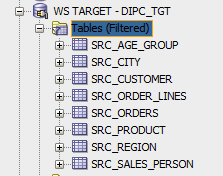
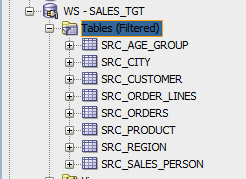
Rewrite Lab500

diff --git a/workshops/dipc/CloudWorkshop_DIPC_500.md b/workshops/dipc/CloudWorkshop_DIPC_500.md
@@ -94,112 +94,95 @@ Click on "Select a default staging connection" hyperlink. You will navigate to t
 	**Source Configuration**
 	- Connection: WebClicks_File
 	- Directory: /home/DIPC
-	- File: 
-	
+	- File: Click on "Select" button, click on "webclicks.txt" hyperlink and then the "Select" button
+
+	![](images/500/image500_11.png)
+
 	**Target Configuration**
-	- Connection: 
-	- Schema: 
-	- Data Entity: 
+	- Connection: SALES_TRG
+	- Schema: SALES_TRG 
+	- Data Entity: WEB_CLICKS
+
+![](images/500/image500_12.png)
 
 
 
-6.	Review Connections settings. 
+6.	Let's review the file option DIPC offers, Click on "Options" button.
+7. Provide the following information:
+	- Edcoding: UTF-8
+	- Delimiter: Comma
+	- Text Qualifier: Leave blank
+	- Header: UNSELECTED 
+	- First Data Row: 1 
+8. Click on "OK" button
 
-7.	Click Test Connection – Review for Errors. 
-- Click Save  
+![](images/500/image500_13.png)
 
-8.	Create Target Connection from the Catalog 
-- NOTE: This connection may have already have been setup in a previous HOL 
-- Click on the Create button and select Connection  
-![](images/500/image500_5a.png)
+9. Execute the task, click on "Save and Transform" button
 
-9.	Enter the following information  
-- Name: Sync Target 
-- Description: Sales OLTP Replicated Data 
-- Agent: leave blank 
-- Type: Oracle – selecting Oracle will expand the Connection Settings 
-- Hostname: localhost 
-- Port: 1521 
-- Username: DIPC_TRG 
-- Password: welcome1 
-- Service Name: dics12c 
-- Schema: DIPC_TRG 
+![](images/500/image500_14.png)
 
-![](images/500/image500_6a.png)
+10.	As the file is being parsed and profiled, the following screen will appear  
 
-10.	Click Test Connection, Review for errors 
+![](images/500/image500_15.png)
 
-11.	Click Save 
+11. Once finished, the data preparation screen will come up. The profiling process has captured advanced profiling information as the flat file was ingested.  Click each column to review the profiling results in the right hand data profile drawer.
+12. There is a second tab in which is possible to review the data in the file; click the "Data" tab 
 
-12.	Create Data Preparation Task Entries as follows 
-- Name: Prep Web Data 
-- Description: Prep External Website Data 
-- Source Configuration 
--  Connection: LocalFileStore 
--  Directory: /home/DIPC 
--  File: Click Select - scroll to webclicks.txt 
+![](images/500/image500_16.png)
 
-- Select options for webclicks.txt as follows 
 
-![](images/500/image500_7a.png)
+13. To transform data on a particular column, click the hamburger menu on the column you want to transfom.  
 
-- No Text Qualifier 
-- Ensure header is not enabled 
-- First Data Row should be 1 
-- Select OK
+![](images/500/image500_17.png)
 
-- Target Configuration 
--  Connection: DIPC_TRG 
--  Schema: DIPC_TRG 
--  Data Entity: webclicks  
-
-![](images/500/image500_8a.png)
-
-13.	Click Save and Transform 
-
-14.	The following screen will appear as the file is being parsed and profiled 
-
-![](images/500/image500_9a.png)
-
-15. Once finished the data preparation screen will appear 
-
-![](images/500/image500_10a.png)
-
-16. Begin prepping/transforming the file 
-
-- The profiling process has captured advanced profiling information as the flat file was ingested.  Click each column to review the profiling results in the right hand data profile drawer. 
-- There are also two views in which data can be prepped and transformed. To view the data view click the data tab 
-
-![](images/500/image500_11a.png)
-
-17. To transform data click the menu bar on the column 
-
-![](images/500/image500_12a.png)
-
-18. For Column 6 transform Shoes.html to shoes.html using the Replace transform 
-
-![](images/500/image500_13a.png)
-
-19. Click Apply.  Clicking apply updates, the data, metadata and profiling statistics.  Also note the transform is saved and displayed in the left-hand drawer.  This transform can be deleted and the data, metadata and profiling statistics will be updated accordingly. 
-![](images/500/image500_14b.png)
-- Column 1: Rename WROWID 
-- Column 2: Rename CUSTID 
-- Column 3: Rename LNAME 
-- Column 4: Rename FNAME 
-- Column 5: Rename PAGENAME 
-- Column 6: Rename PAGEREFERRER 
-- Column 7: Rename VISITDATE 
-
-20. Review Transforms and Data
-
-![](images/500/image500_15b.png)
-
-21. Click Save and Run 
-
-22. Review Job Execution 
+14. For Column 6, click on the hamburger menu and then select "Replace".
  
-![](images/500/image500_16a.png)
+![](images/500/image500_18.png)
 
-Summary 
+15. Provide the following information:
+	- Search String: SHoe.html
+	- Replace String: shoes.html
+16. Click the "Apply" button.
+
+![](images/500/image500_19.png)
+
+Clicking apply updates data, metadata and profiling statistics.  Also note the transform is saved and displayed in the left-hand drawer.  This transform can be deleted and the data, metadata and profiling statistics will be updated accordingly. 
+
+![](images/500/image500_20.png)
+
+17. Now please perform the following transformations:
+	- Column 1: Rename to WROWID 
+	- Column 2: Rename to CUSTID 
+	- Column 3: Rename to LNAME 
+	- Column 4: Rename to FNAME 
+	- Column 5: Rename to PAGENAME 
+	- Column 6: Rename to PAGEREFERRER 
+	- Column 7: Rename to VISITDATE 
+18. Review Transforms and Data
+19. Click "Save and Run" button (top right corner)
+
+![](images/500/image500_21.png)
+
+20.	You will be navigated to the “Jobs” screen. After some time, a message will appear in the notification bar
+21.	The job will automatically appear within the "Jobs" page. This may take up to 1 minute
+
+![](images/500/image500_22.png)
+
+22. Review the job execution, click on the job name
  
-You have now successfully completed the Hands on Lab, and have successfully performed an end-to-end data synchronization task through Oracle’s Data Integration Platform Cloud. 
+![](images/500/image500_23.png)
+
+
+### Verify Uploaded Data (Optional)
+
+1.	Go to your SQL Developer and expand "WS - SALES_TRG" connection and its tables. If it is already opened, just refresh the information)
+2.	Select “SRC_CUSTOMER” table
+3.	On the right panel, select “Data” tab
+
+![](images/500/image500_24.png)
+ 
+
+## Summary 
+ 
+You have now successfully completed the Hands on Lab, and have successfully performed an Data Preparation task through Oracle’s Data Integration Platform Cloud. 

diff --git a/workshops/dipc/CloudWorkshop_DIPC_200.md b/workshops/dipc/CloudWorkshop_DIPC_200.md
@@ -165,7 +165,7 @@ The “Advanced Options” allow you to optionally enable or disable the initial
 
 ![](images/200/image200_21.png)
 
-7.	You will be navigated to the “Jobs” screen. After some time, a notification will appear in the notification bar
+7.	You will be navigated to the “Jobs” screen. After some time, a message will appear in the notification bar
 
 ![](images/200/image200_22.png)
 
@@ -231,7 +231,7 @@ DIPC has created and orchestrated the initial load and the data synchronization 
 ### Verify Data in Source and Target DBs (Optional)
 Up until this point, we have monitored the job within DIPC but it would nice to see the data in both source and target to verify that they are the same. For such task, we will use SQL Developer; please refer to Appendix 3 to learn how to create connections against the workshop databases.
 
-1.	Start SQL Developer. On the connections panel, select your source database and click on the plus (+) sign to open the connection
+1.	Start SQL Developer. On the connections panel, select your source database (WS - SALES_SRC) and click on the plus (+) sign to open the connection
 
     ![](images/200/image200_34.png)
  
@@ -261,7 +261,7 @@ SELECT COUNT(*) SALES_PERSON FROM SRC_SALES_PERSON;
 
 ![](images/200/image200_36.png)
 
-5.	Repeat steps 1 through 4 for connection “WS TARGET - SALES_TRG ”
+5.	Repeat steps 1 through 4 for connection “WS - SALES_TRG ”
 
     ![](images/200/image200_37.png)
  
@@ -286,7 +286,7 @@ Now you have verified that both Extract and Replicat are running. Exit from GGSC
 
 We are going to apply some changes to the source DB and verify how our “Synchronize Data” task takes care of these changes and replicates them to the target.
 
-1.	Go to your SQL Developer and expand “WS SALES - SALES_SRC” connection and its tables.
+1.	Go to your SQL Developer and expand “WS - SALES_SRC” connection and its tables.
 
 ![](images/200/image200_40.png)
  
@@ -309,7 +309,7 @@ We are going to apply some changes to the source DB and verify how our “Synchr
 ![](images/200/image200_42.png)
 
 5.	Click on “Commit” icon to insert the row into the DB (fifth icon from left to right on the icon bar; green checkmark on top of a disk)
-6.	Verify the insert in the target. Go to SQL developer and expand “WS TARGET - SALES_TRG ” connection and its tables
+6.	Verify the insert in the target. Go to SQL developer and expand “WS - SALES_TRG ” connection and its tables
 
 ![](images/200/image200_43.png)
  
@@ -333,14 +333,14 @@ As data is updated, inserted or deleted from the source the data will be automat
 
 ![](images/200/image200_47.png)
  
-13.	Now, we will perform a delete. On your “WS AMER - SALES_SRC” connection (SQL Developer) select “SRC_CUSTOMER” table
+13.	Now, we will perform a delete. On your “WS - SALES_SRC” connection (SQL Developer) select “SRC_CUSTOMER” table
 14.	On the right panel, select “Data” tab and look for “Peter Parker”, select it.
 
 ![](images/200/image200_48.png)
 
 15.	Click on “delete icon (fourth icon from left to right on the icon bar; red X) 
 16.	Click on “Commit” (fifth icon from left to right on the icon bar; green checkmark on top of a disk) icon 
-17.	Let’s verify the deletion in the target. On your “WS TARGET - SALES_TRG ” connection (SQL Developer) select “SRC_CUSTOMER” table
+17.	Let’s verify the deletion in the target. On your “WS - SALES_TRG ” connection (SQL Developer) select “SRC_CUSTOMER” table
 18.	Look for “Peter Parker”, it will not be there
 19.	Go back to DIPC, you should be in the detail screen of the Data Synch job
 20.	It might take some time. The screen will reflect the deletion in the source
@@ -351,7 +351,7 @@ As data is updated, inserted or deleted from the source the data will be automat
 
 ![](images/200/image200_50.png)
 
-22.	Now let’s perform an update. On your “WS SALES - SALES_SRC” connection (SQL Developer) select “SRC_CUSTOMER” table
+22.	Now let’s perform an update. On your “WS - SALES_SRC” connection (SQL Developer) select “SRC_CUSTOMER” table
 23.	On the right panel, select “Data” tab and look for “Paul Brendt”, double click in his age
 
 ![](images/200/image200_51.png)
@@ -361,7 +361,7 @@ As data is updated, inserted or deleted from the source the data will be automat
 ![](images/200/image200_52.png)
 
 25.	Click on “Commit” (fifth icon from left to right on the icon bar; green checkmark on top of a disk) icon. This row will be automatically updated on the target as the DIPC Job picks up the change
-26.	Let’s verify the update in the target. On your “WS TARGET - SALES_TRG ” connection (SQL Developer) select “SRC_CUSTOMER” table
+26.	Let’s verify the update in the target. On your “WS - SALES_TRG ” connection (SQL Developer) select “SRC_CUSTOMER” table
 27.	On the right panel, select “Data” tab and look for “Paul Brendt”, his age has change to 25
 28.	Go back to DIPC, you should be in the detail screen of the Data Synch job
 29.	It might take some time. The screen will reflect the update in the source

diff --git a/workshops/dipc/CloudWorkshop_DIPC_Ap3.md b/workshops/dipc/CloudWorkshop_DIPC_Ap3.md
@@ -10,7 +10,7 @@ SQL developer can be used to verify data in sources and targets.
 ![](images/Ap3/imageAp3_20.png)
 
 3.	Provide the following information
->    - Connection Name: WS SALES - SALES_SRC
+>    - Connection Name: WS - SALES_SRC
 >    - Username: SALES_SRC
 >    - Password: Welcome#123
 >    - Save Password: SELECTED
@@ -30,9 +30,9 @@ SQL developer can be used to verify data in sources and targets.
 
 ## Additional Connections
 You will need to define the following connections:
-1. WS TARGET - DIPC_TGT
->    - Connection Name: WS TARGET - DIPC_TGT
->    - Username: DIPC_TGT
+1. WS - SALES_TRG
+>    - Connection Name: WS - SALES_TRG
+>    - Username: SALES_TRG 
 >    - Password: Welcome#123
 >    - Save Password: SELECTED
 >    - Connector Type: Basic
@@ -41,9 +41,20 @@ You will need to define the following connections:
 >    - Service Name: **<TRG_DB_SERVICE_NAME>**
 
 
-2. WS TARGET - TRG_AGG_SALES
->   - Connection Name: WS TARGET - TRG_AGG_SALES
+2. WS - TRG_AGG_SALES
+>   - Connection Name: WS - TRG_AGG_SALES
 >   - Username: TRG_AGG_SALES
+>   - Password: Welcome#123
+>   - Save Password: SELECTED
+>   - Connector Type: Basic
+>   - Hostname: **<TRG_DB_IP_ADDRESS>**
+>   - Port: 1521
+>   - Service Name: **<TRG_DB_SERVICE_NAME>**
+
+
+3. WS - EMEA_CL_TRG
+>   - Connection Name: WS - EMEA_CL_TRG
+>   - Username: EMEA_CL_TRG
 >   - Password: Welcome#123
 >   - Save Password: SELECTED
 >   - Connector Type: Basic
